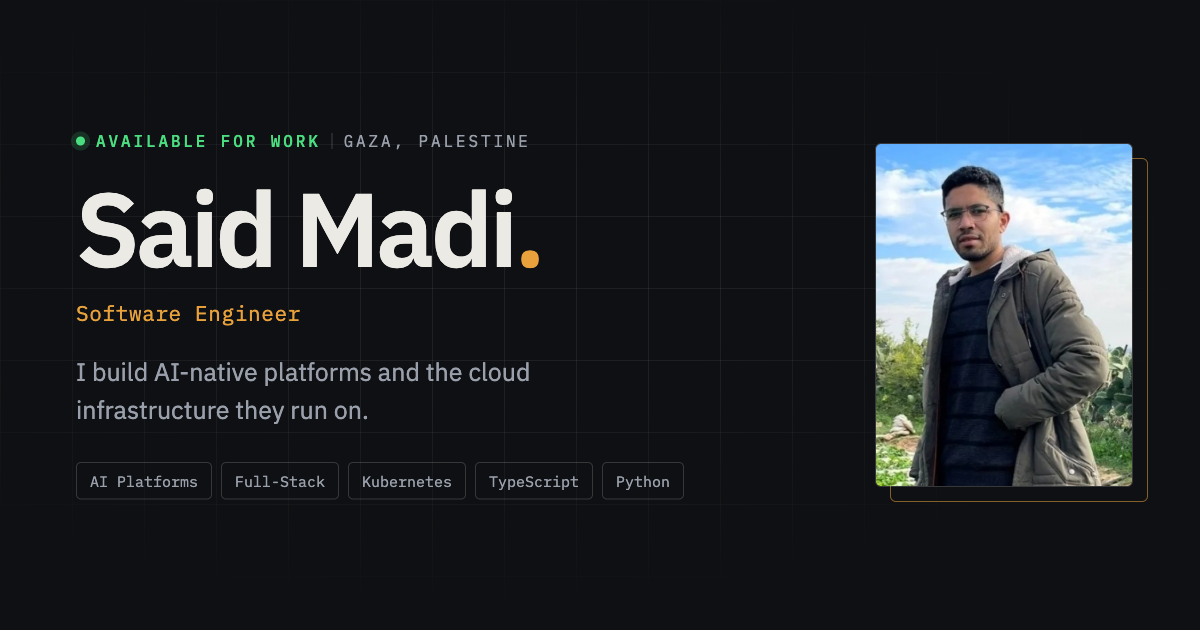
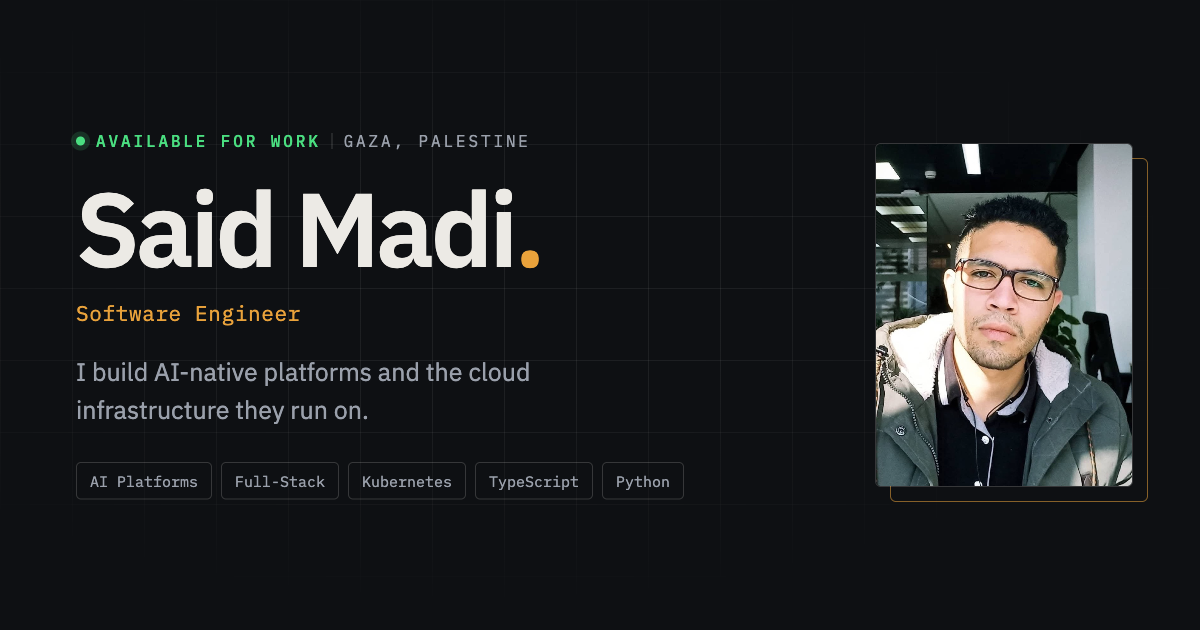
Replace portrait with the new headshot
Framed 3:4 on the face rather than the previous half-body shot, which read as
a snapshot next to the rest of the page. The share card is regenerated from
the same image so the link preview matches the site.

Changed region(s): [[0.7092, 0.2111, 0.9558, 0.7841]]

diff --git a/src/components/Hero.tsx b/src/components/Hero.tsx
@@ -208,7 +208,7 @@ export default function Hero() {
             <Box
               sx={{
                 position: 'relative',
-                aspectRatio: '899 / 1200',
+                aspectRatio: '3 / 4',
                 overflow: 'hidden',
                 borderRadius: 1,
                 bgcolor: palette.surface,
@@ -220,7 +220,7 @@ export default function Hero() {
                 component="img"
                 src={profile.portrait}
                 alt={t('hero.portraitAlt')}
-                width={899}
+                width={900}
                 height={1200}
                 fetchPriority="high"
                 sx={{ width: '100%', height: '100%', objectFit: 'cover', display: 'block' }}
